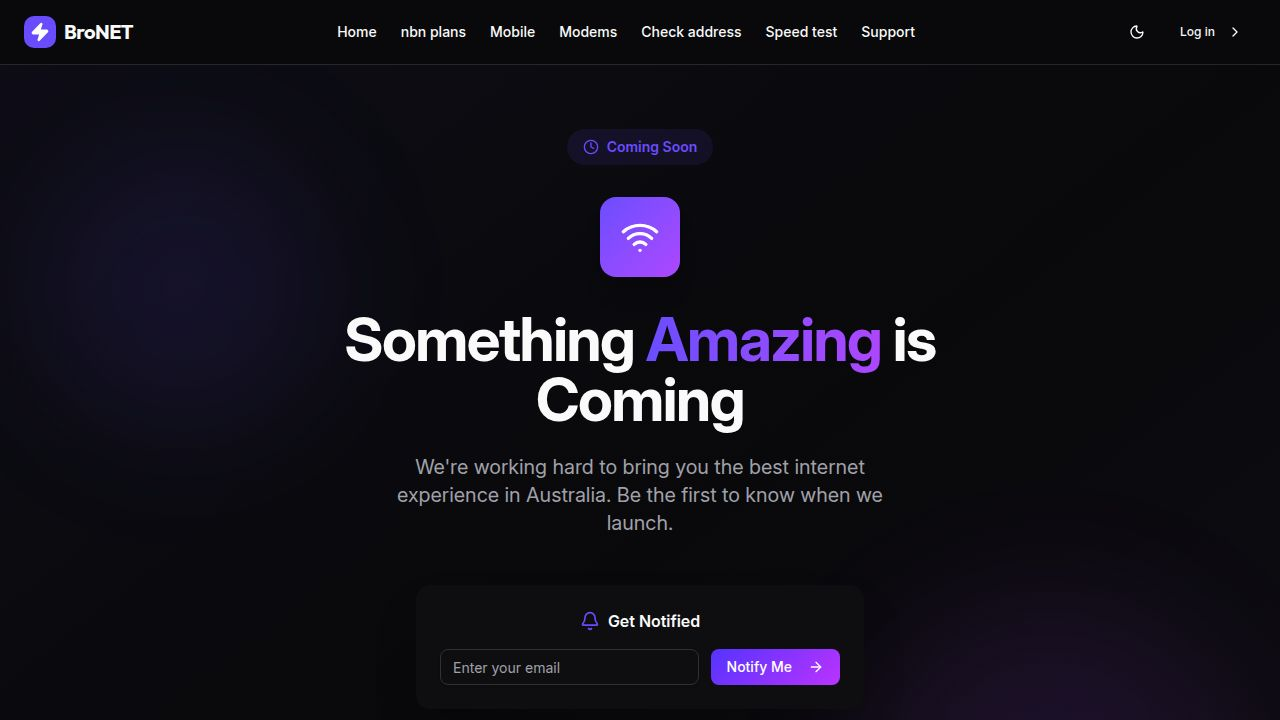
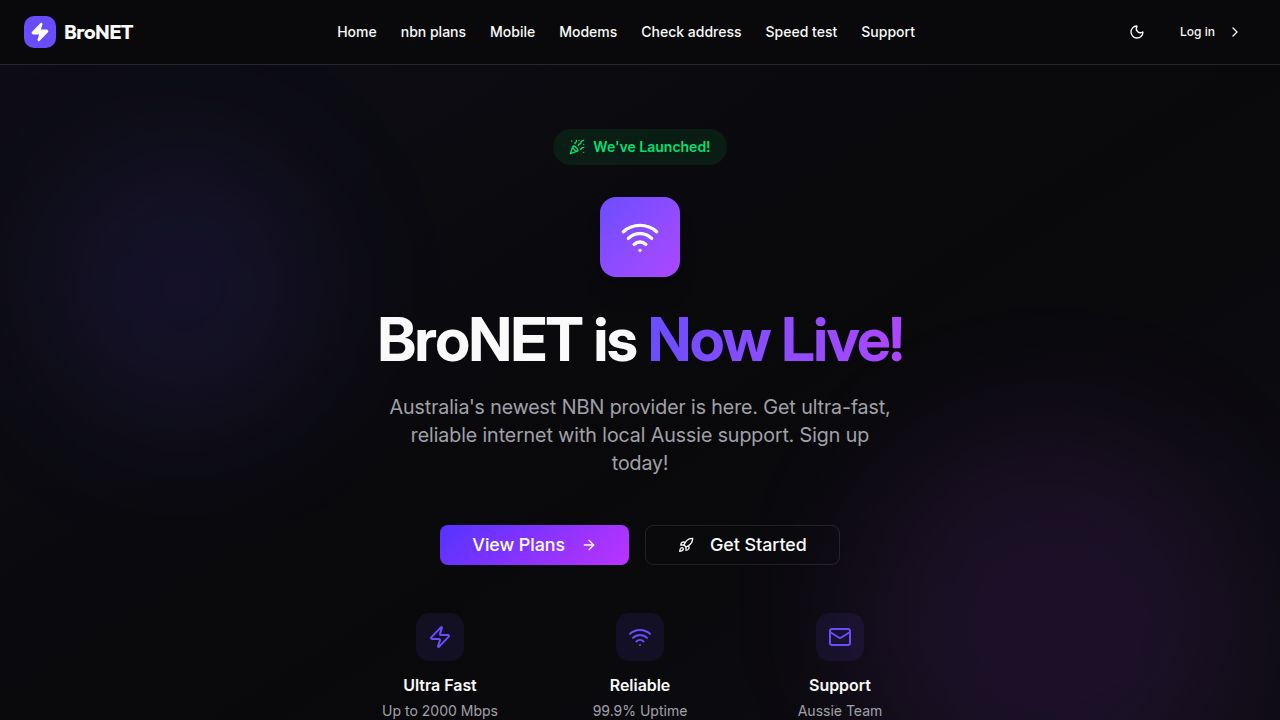
Add free router option to signup wizard and update logic
Update ROUTER_OPTIONS to include a free BroNET router option. Default selectedRouter to 'free'. Add logic to handlePlanSelect to reset router selection if free router is not available for the selected plan. Filter ROUTER_OPTIONS to only show the free router for 500Mbps+ plans. Update CardDescription based on selected plan speed.

Replit-Commit-Author: Agent
Replit-Commit-Session-Id: 4adfe2c0-f256-4689-ab0e-755c5e6ef7c3
Replit-Commit-Checkpoint-Type: full_checkpoint
Replit-Commit-Event-Id: f4d8b599-0db4-430e-aba8-2f08cbc8213b
Replit-Commit-Screenshot-Url: https://storage.googleapis.com/screenshot-production-us-central1/5ca336ca-61a6-46f1-b3c1-ec79abf0354a/4adfe2c0-f256-4689-ab0e-755c5e6ef7c3/RTvgI6O
Replit-Helium-Checkpoint-Created: true

diff --git a/client/src/pages/signup-wizard.tsx b/client/src/pages/signup-wizard.tsx
@@ -69,7 +69,8 @@ type RouterOption = {
 };
 
 const ROUTER_OPTIONS: RouterOption[] = [
-  { id: "eero", name: "eero 7 WiFi Router", description: "Whole-home mesh WiFi 7 system", price: 199, commitment: 24 },
+  { id: "free", name: "Free BroNET Router", description: "Free WiFi 6 router on 500Mbps+ plans (36-month commitment)", price: 0, commitment: 36 },
+  { id: "eero", name: "eero 7 WiFi Router", description: "Premium whole-home mesh WiFi 7 system", price: 199, commitment: 24 },
   { id: "byo", name: "BYO Router", description: "Use your own compatible router", price: 0 },
 ];
 
@@ -98,7 +99,7 @@ export default function SignupWizard() {
   const [stripeProducts, setStripeProducts] = useState<any[]>([]);
   
   // Router selection
-  const [selectedRouter, setSelectedRouter] = useState<string>("byo");
+  const [selectedRouter, setSelectedRouter] = useState<string>("free");
   
   // Promo code
   const [promoCode, setPromoCode] = useState("");
@@ -273,6 +274,14 @@ export default function SignupWizard() {
   const handlePlanSelect = (plan: Plan) => {
     const priceId = getPriceId(plan.name);
     setSelectedPlan({ ...plan, priceId });
+    
+    // Reset router selection if free router not available for this plan
+    if (plan.speed < 500 && selectedRouter === "free") {
+      setSelectedRouter("byo");
+    } else if (plan.speed >= 500 && selectedRouter === "byo") {
+      // Default to free router for 500Mbps+ plans
+      setSelectedRouter("free");
+    }
   };
 
   const handleApplyPromo = () => {
@@ -762,13 +771,20 @@ export default function SignupWizard() {
                 Router Options
               </CardTitle>
               <CardDescription>
-                Add an eero mesh system or bring your own router
+                {selectedPlan.speed >= 500 
+                  ? "Get a free router with your 500Mbps+ plan, or choose premium options"
+                  : "Add an eero mesh system or bring your own router"
+                }
               </CardDescription>
             </CardHeader>
             <CardContent>
               <RadioGroup value={selectedRouter} onValueChange={setSelectedRouter}>
                 <div className="grid gap-3">
-                  {ROUTER_OPTIONS.map((router) => (
+                  {ROUTER_OPTIONS.filter(router => {
+                    // Free router only available for 500Mbps+ plans
+                    if (router.id === "free" && selectedPlan.speed < 500) return false;
+                    return true;
+                  }).map((router) => (
                     <div
                       key={router.id}
                       className={`flex items-start gap-3 p-4 border-2 rounded-xl cursor-pointer transition-all ${
